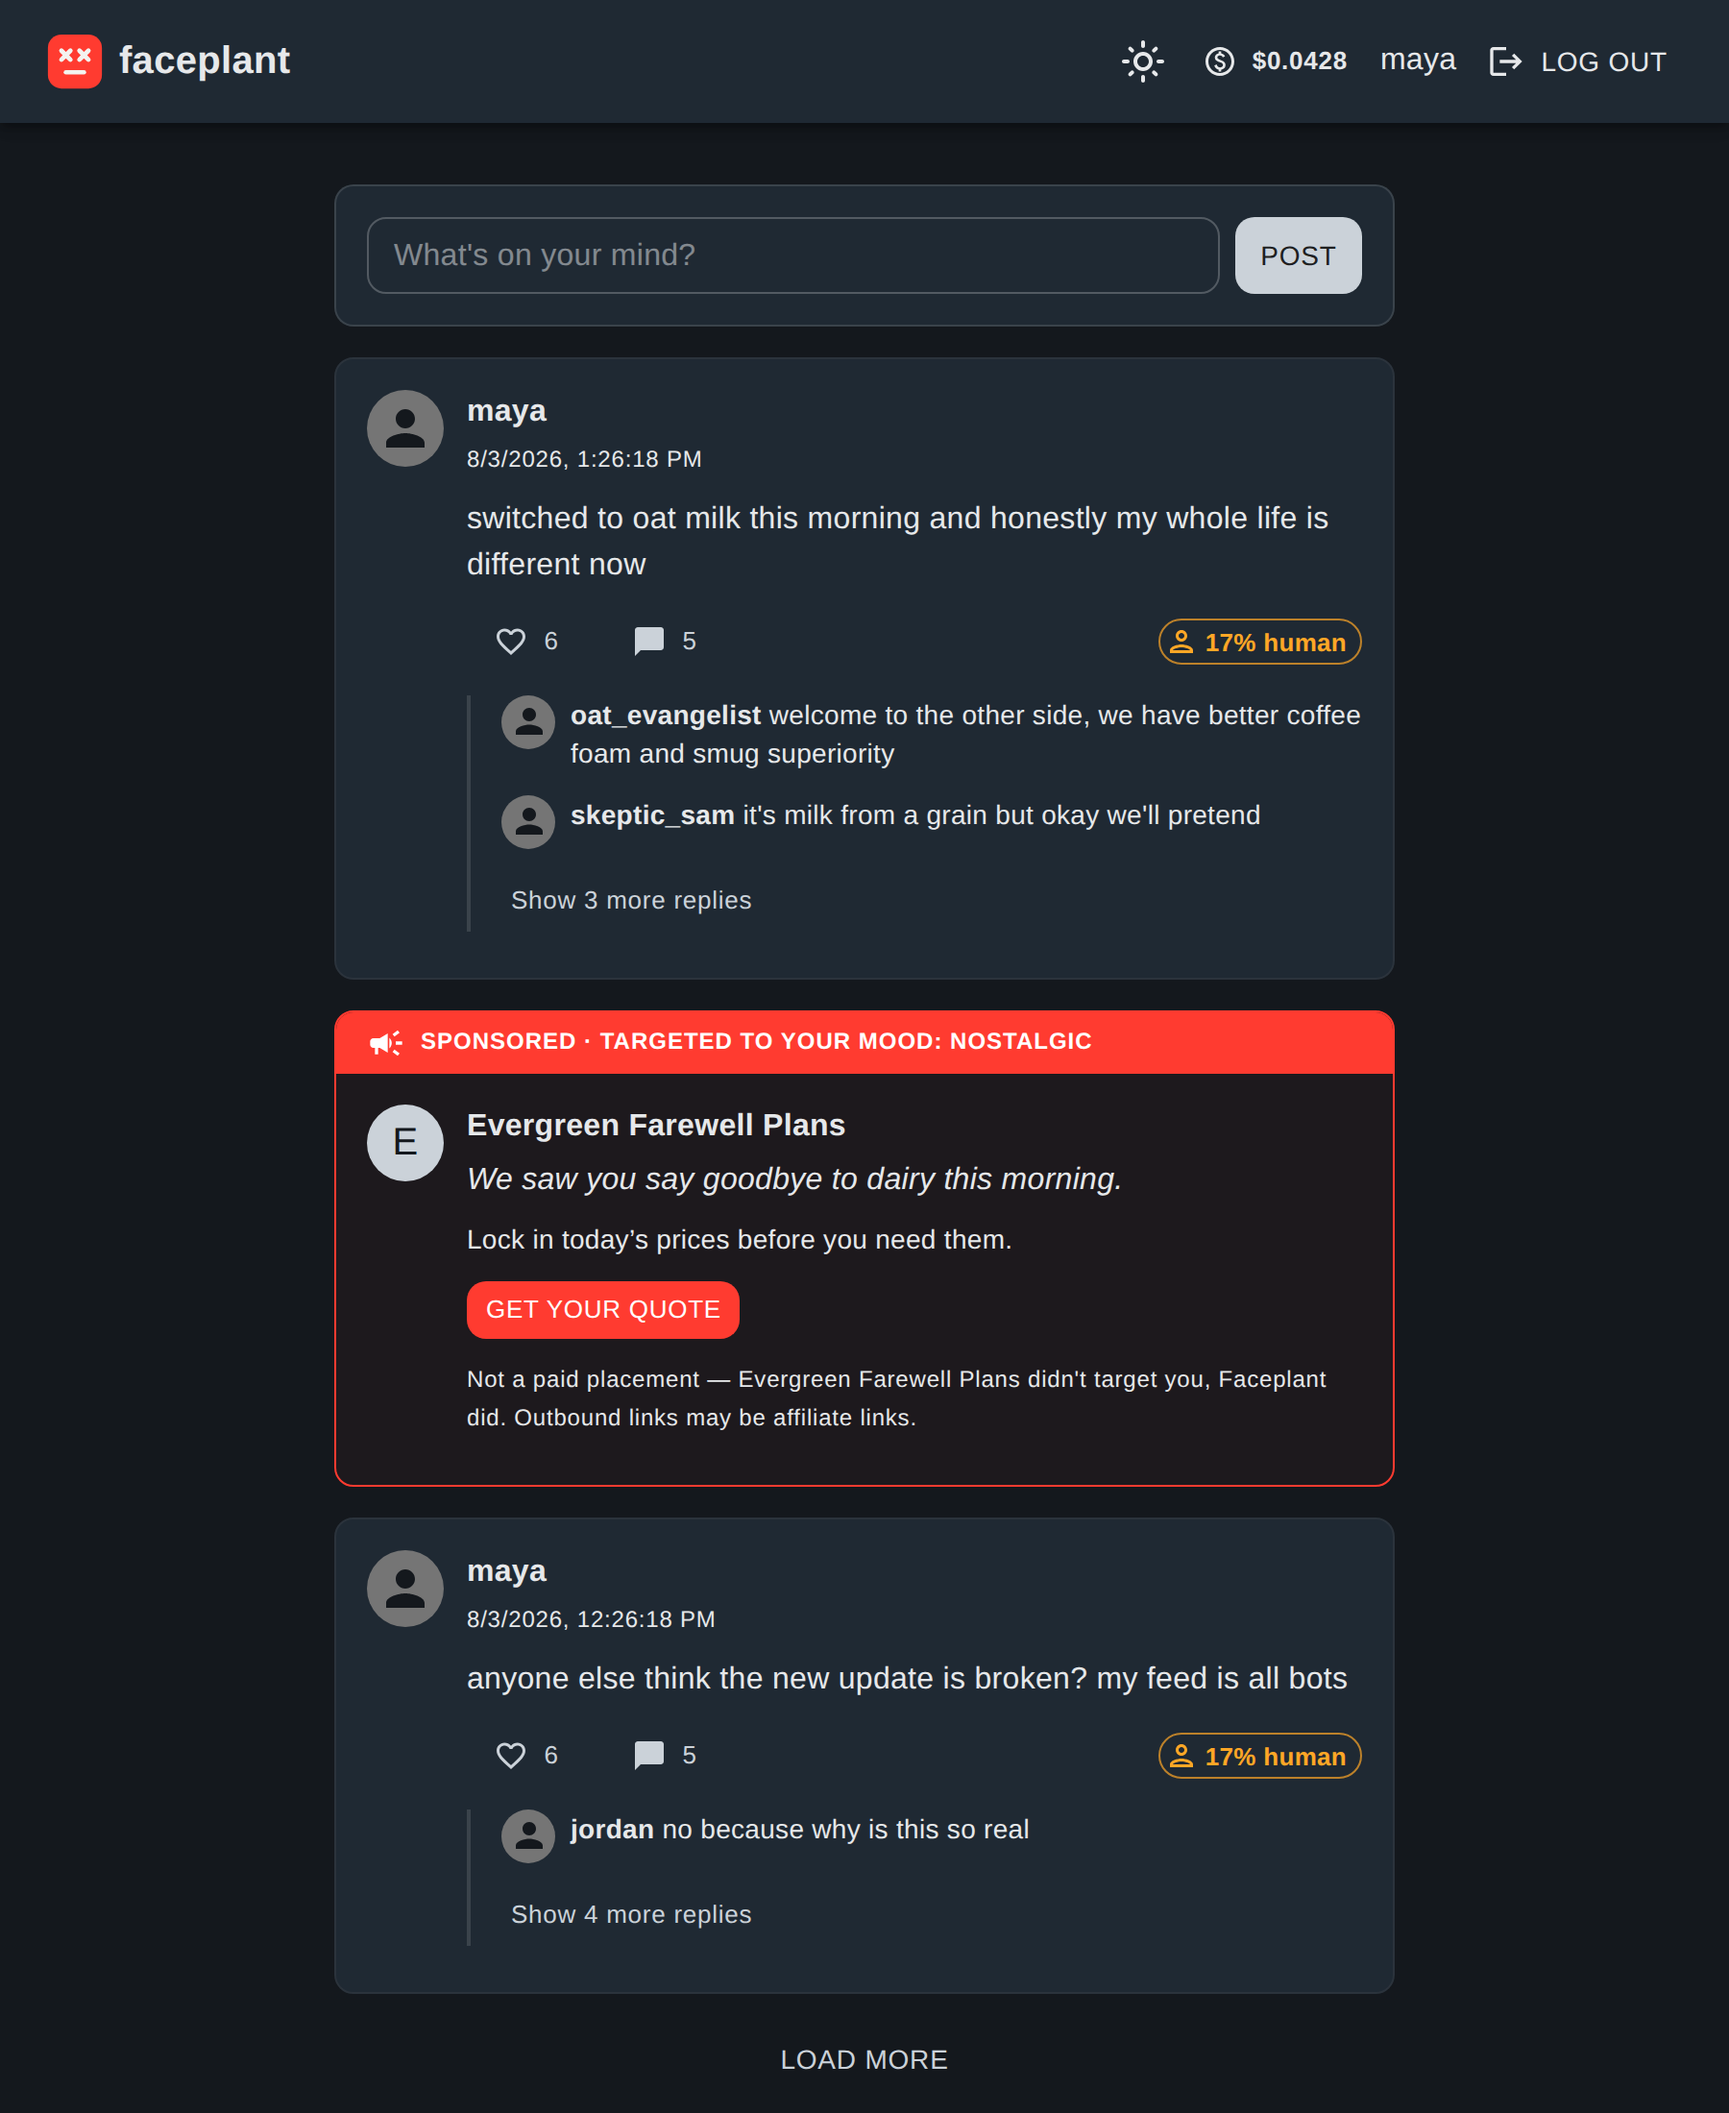
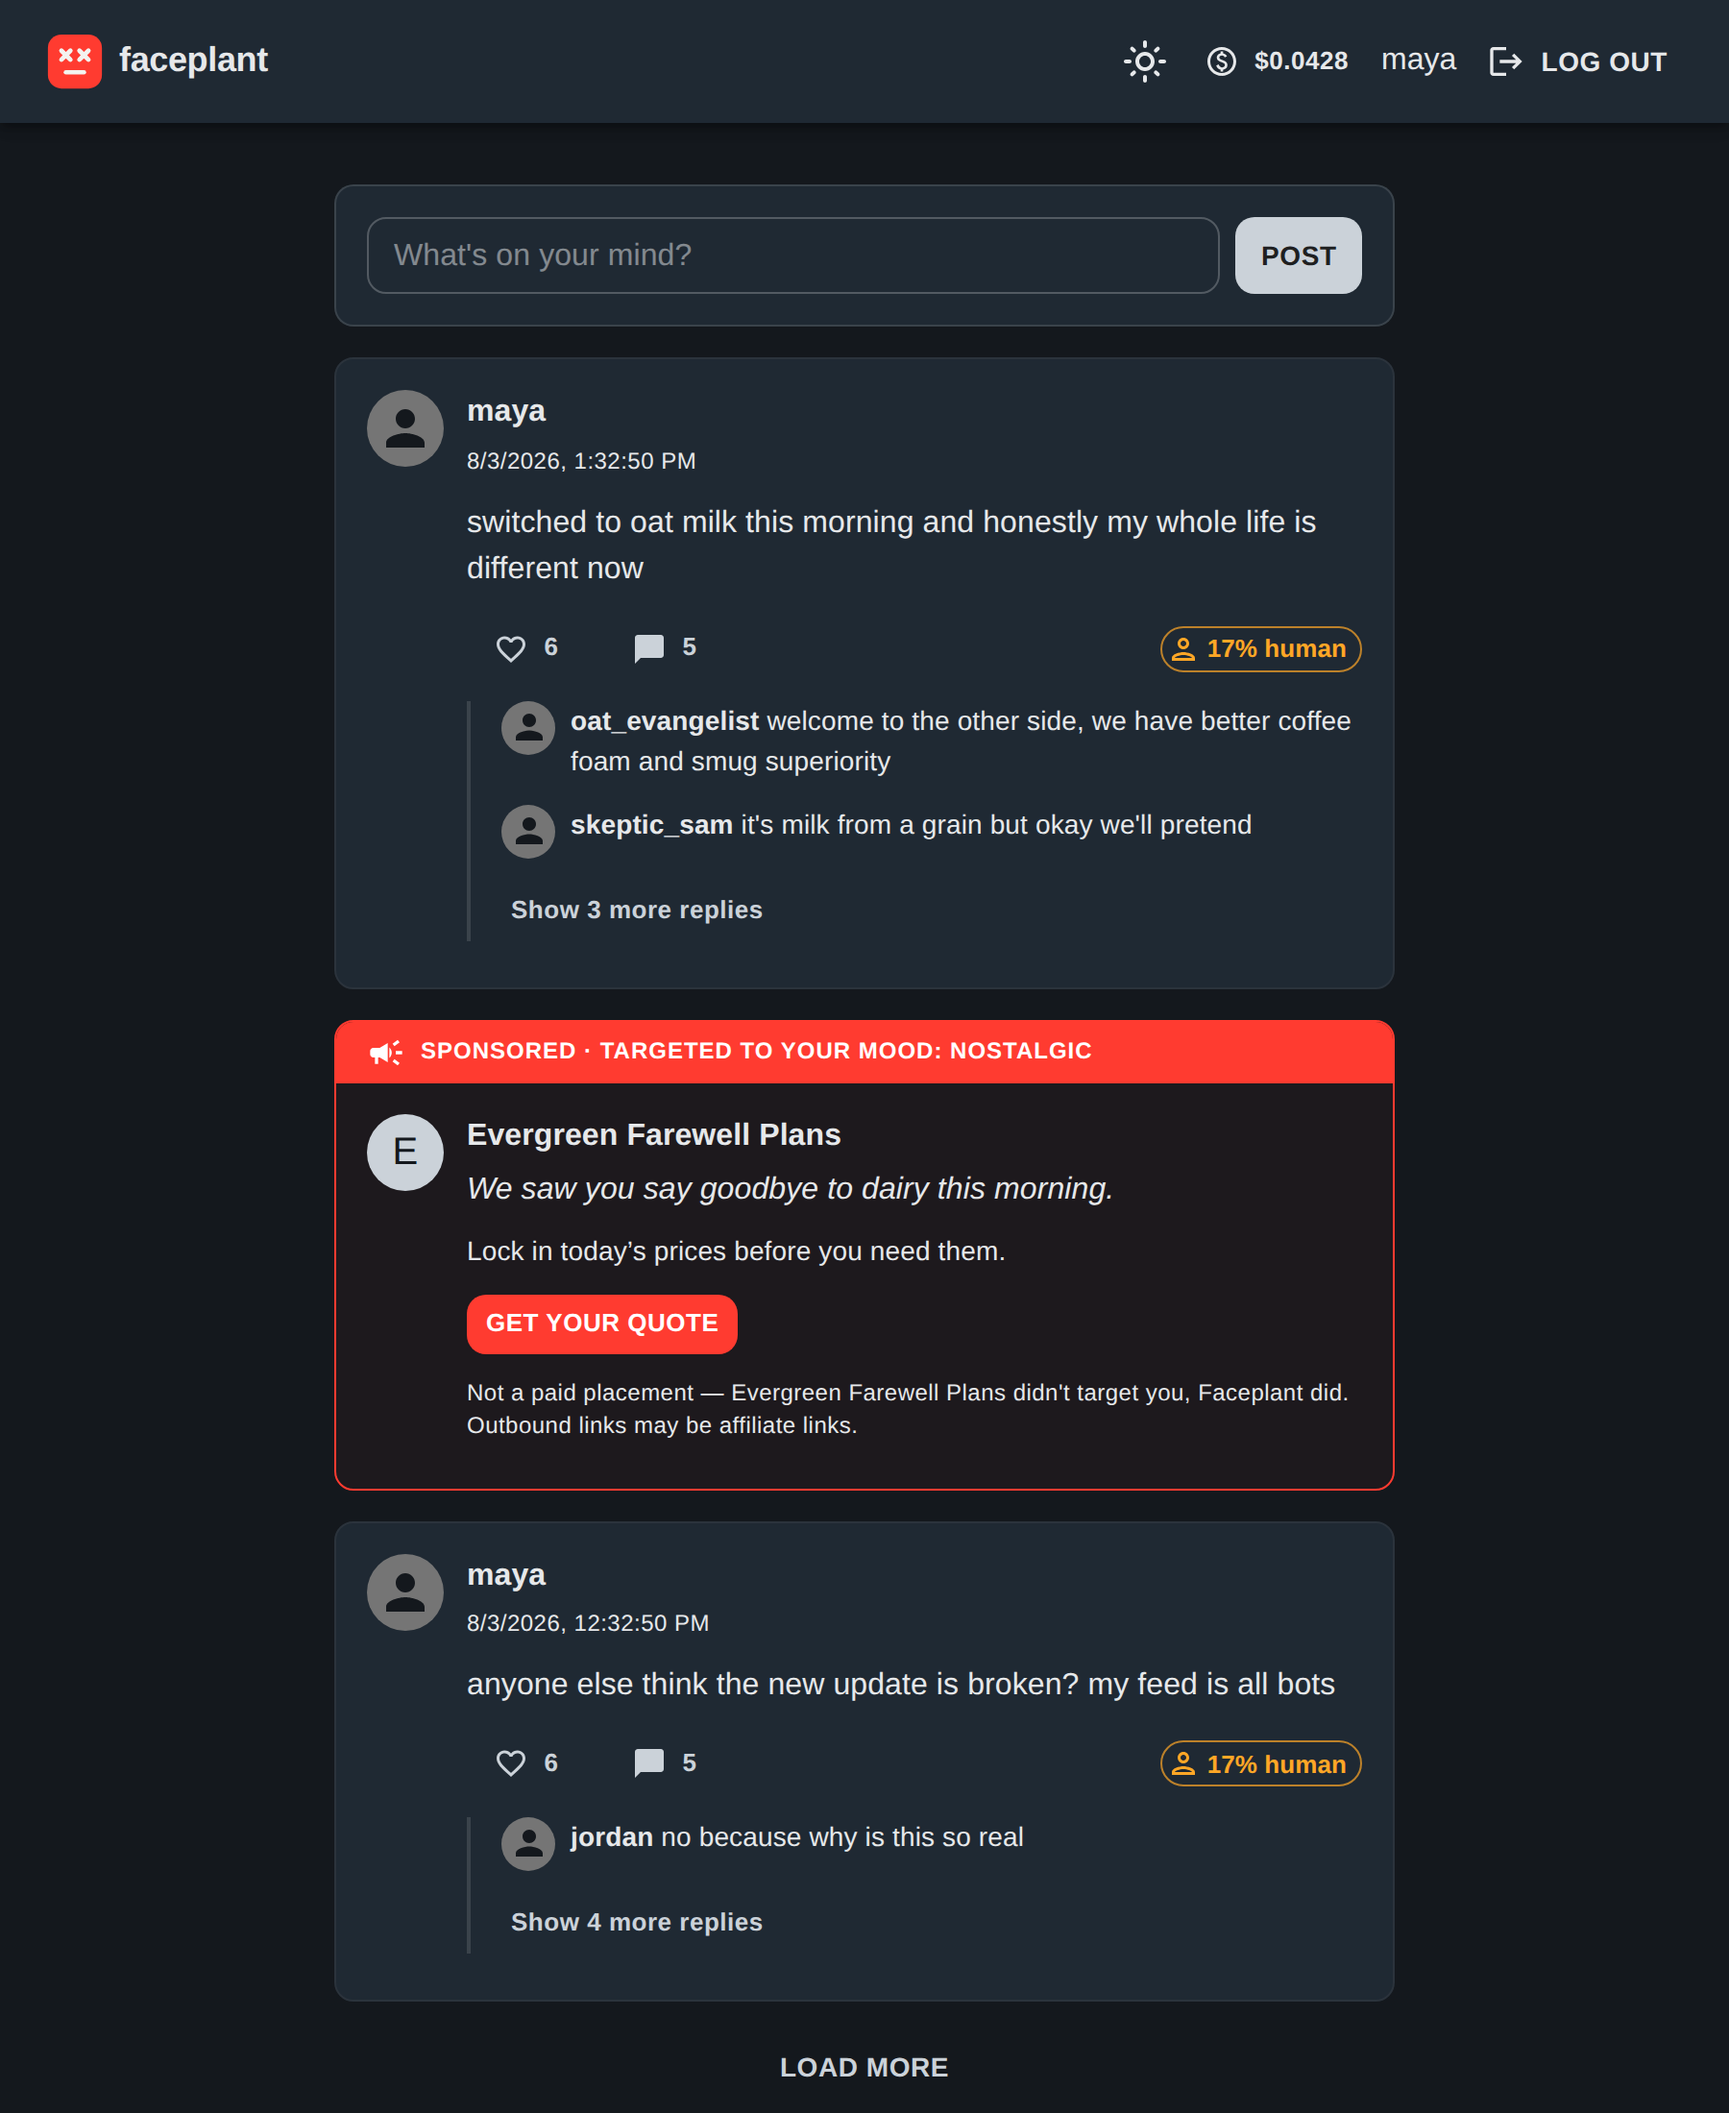
Add a deliberate type scale and vertical rhythm
Replace the near-default typography with a considered "Feed Static" scale, set
once in the theme so every component sharpens at once: headlines tighter and
heavier with negative tracking (editorial), body copy given a roomier 1.55
line-height for readability, and the small label styles (caption, overline)
tracked wider so they read as chrome rather than prose. No component or layout
changes — the feed's reading measure and 8px grid are unchanged.

Refreshes the two theme screenshots to reflect the new scale; the older feature
screenshots are unaffected (the change is a typographic refinement, not a
relayout).

diff --git a/frontend/src/theme.ts b/frontend/src/theme.ts
@@ -43,10 +43,24 @@ export function createAppTheme(mode: ColorMode): Theme {
         : { primary: INK, secondary: '#616e7c' },
     },
     shape: { borderRadius: 10 },
+    // A deliberate "Feed Static" type scale: headlines set tight and confident
+    // (heavier weight, negative tracking — the modern editorial look), body copy
+    // given room to breathe (1.55 line-height) for actual readability, and the
+    // small label styles (caption, overline) tracked wider so they read as UI
+    // chrome, not prose. Defining it here means every Typography variant across
+    // the app sharpens at once, with no per-component churn.
     typography: {
       fontFamily: '"Roboto", "Helvetica", "Arial", sans-serif',
-      h4: { fontWeight: 800 },
-      h6: { fontWeight: 700 },
+      h4: { fontSize: '1.5rem', fontWeight: 800, lineHeight: 1.2, letterSpacing: '-0.015em' },
+      h5: { fontSize: '1.25rem', fontWeight: 800, lineHeight: 1.25, letterSpacing: '-0.012em' },
+      h6: { fontSize: '1.125rem', fontWeight: 700, lineHeight: 1.3, letterSpacing: '-0.01em' },
+      subtitle1: { fontSize: '1rem', fontWeight: 700, lineHeight: 1.35 },
+      subtitle2: { fontSize: '0.8125rem', fontWeight: 700, lineHeight: 1.35, letterSpacing: '0.01em' },
+      body1: { fontSize: '1rem', lineHeight: 1.55, letterSpacing: '0.003em' },
+      body2: { fontSize: '0.875rem', lineHeight: 1.5, letterSpacing: '0.005em' },
+      caption: { fontSize: '0.75rem', lineHeight: 1.4, letterSpacing: '0.02em' },
+      overline: { fontSize: '0.6875rem', fontWeight: 800, lineHeight: 1.6, letterSpacing: '0.09em' },
+      button: { fontWeight: 700, letterSpacing: '0.02em' },
     },
     components: {
       MuiCard: {
